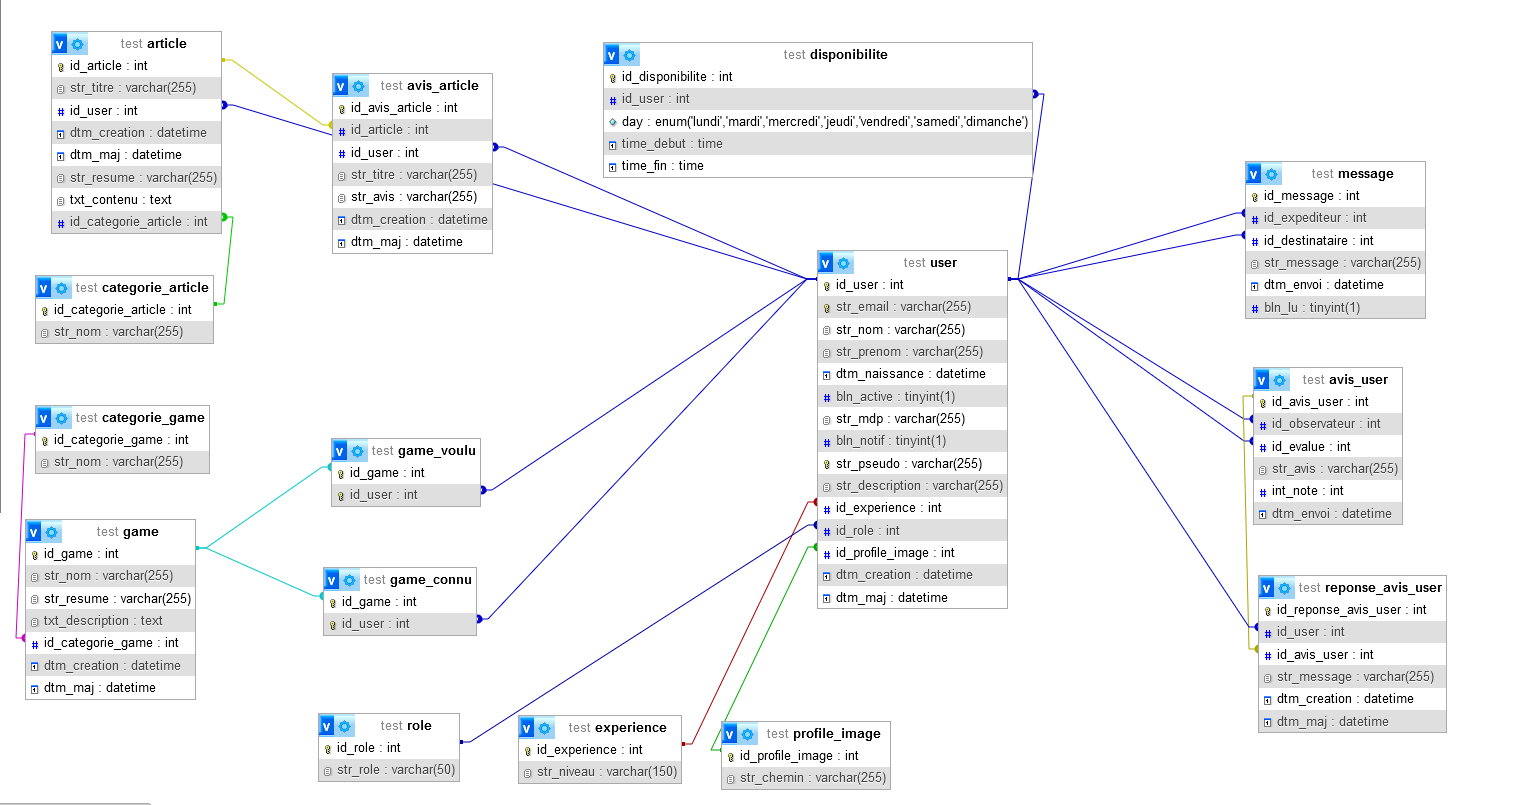
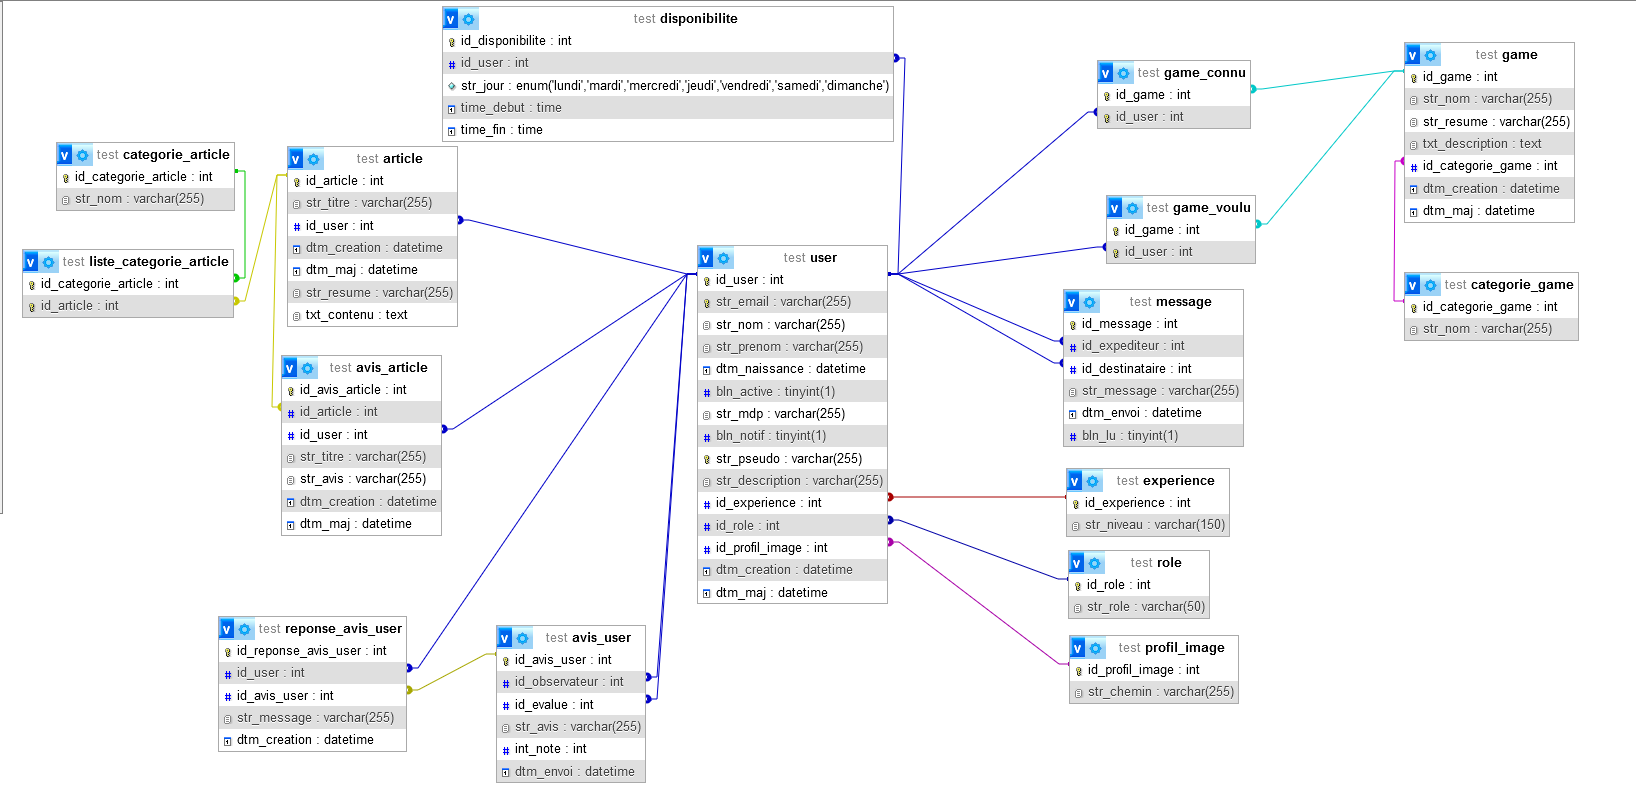
UserRepository en cours

diff --git a/src/Repositories/UserRepository.php b/src/Repositories/UserRepository.php
@@ -1,0 +1,136 @@
+<?php
+
+namespace src\Repositories;
+
+use PDO;
+use PDOException;
+use src\Models\Database;
+use src\Models\User;
+
+class UserRepository {
+
+    private $DB;
+
+    private function __construct() {
+        $database = new Database();
+        $this->DB = $database->getDB();
+        require_once __DIR__.'/../../config.php';
+    }
+
+    public function createUser(User $user): User {
+        try {
+            $sql = "INSERT INTO user (str_email, str_nom, str_prenom, dtm_naissance, str_pseudo) 
+                    VALUES (:str_email, :str_nom, :str_prenom, :dtm_naissance, :str_pseudo)";
+            $statement = $this->DB->prepare($sql);
+            $statement->execute([
+                ":str_email"     => $user->getStrEmail(),
+                ":str_nom"       => $user->getStrNom(),
+                ":str_prenom"    => $user->getStrPrenom(),
+                ":dtm_naissance" => $user->getDtmNaissance(),
+                ":str_pseudo"    => $user->getStrPseudo()
+            ]);
+
+            $lastInsertId = $this->DB->lastInsertId();
+            $user->setIdUser((int)$lastInsertId);
+
+            $sql = "SELECT * FROM user WHERE id_user = :id";
+            $statement = $this->DB->prepare($sql);
+            $statement->execute([":id" => $lastInsertId]);
+            $userData = $statement->fetch(PDO::FETCH_ASSOC);
+
+            if ($userData) {
+                $user->actualise($userData);
+            }
+            return $user;
+        } 
+        catch (PDOException $error) {
+            throw new \Exception("Database error: " . $error->getMessage());
+        }
+    }
+
+    public function getAllUser () :array {
+        try {
+            $sql = "SELECT user.*, AVG(avis_user.int_note) AS avg_score
+                    FROM user
+                    LEFT JOIN avis_user ON user.id_user = avis_user.id_evalue
+                    GROUP BY user.id_user
+                    ORDER BY avg_score DESC;";
+            $statement = $this->DB->prepare($sql);
+            $statement->execute();
+            $retour = $statement->fetchAll(PDO::FETCH_CLASS, User::class);
+            return $retour;
+        }
+        catch (PDOException $error) {
+            throw new \Exception("Database error: " . $error->getMessage());
+        }
+    }
+
+    public function getThisUserById (int $id_user): User {
+        try {
+            $sql = "SELECT * FROM user WHERE user.id_user = :id_user;";
+            $statement = $this->DB->prepare($sql);
+            $statement->execute([
+                ":id_user" => $id_user
+            ]);
+            $retour = $statement->fetchAll(PDO::FETCH_CLASS, User::class);
+            return $retour;
+        }
+        catch (PDOException $error) {
+            throw new \Exception("Database error: " . $error->getMessage());
+        }
+    }
+
+    public function getThisUserByEmail (string $str_email): User {
+        try {
+            $sql = "SELECT * FROM user WHERE user.str_email = :str_email;";
+            $statement = $this->DB->prepare($sql);
+            $statement->execute([
+                ":str_email" => $str_email
+            ]);
+            $retour = $statement->fetchAll(PDO::FETCH_CLASS, User::class);
+            return $retour;
+        }
+        catch (PDOException $error) {
+            throw new \Exception("Database error: " . $error->getMessage());
+        }
+    }
+
+    public function getThisUserByPseudo (int $str_pseudo): User {
+        try {
+            $sql = "SELECT * FROM user WHERE user.str_pseudo = :str_pseudo;";
+            $statement = $this->DB->prepare($sql);
+            $statement->execute([
+                ":str_pseudo" => $str_pseudo
+            ]);
+            $retour = $statement->fetchAll(PDO::FETCH_CLASS, User::class);
+            return $retour;
+        }
+        catch (PDOException $error) {
+            throw new \Exception("Database error: " . $error->getMessage());
+        }
+    }
+
+
+
+    public function login(string $str_email, string $password): ?User {
+        try {
+            $sql = "SELECT * FROM ".PREFIXE."user WHERE user.str_email = :str_email;";
+            $statement = $this->DB->prepare($sql);
+            $statement->execute([
+                ":str_email" => $str_email,
+            ]);
+
+            $statement->setFetchMode(PDO::FETCH_CLASS, User::class);
+            $user = $statement->fetch();
+
+            if ($user && password_verify($password, $user->getStrMdp())) {
+                return $user;
+            } else {
+                return null;
+            }
+        } catch (PDOException $error) {
+            throw new \Exception("Database error: " . $error->getMessage());
+        }
+    }
+
+}

diff --git a/src/Models/ListeCategorieArticle.php b/src/Models/ListeCategorieArticle.php
@@ -1,0 +1,49 @@
+<?php
+
+namespace src\Models;
+
+use src\Services\Hydratation;
+
+class ListeCategorieArticle {
+
+    private int $id_categorie_article;
+    private int $id_article;
+
+    use Hydratation;
+
+    /**
+     * Get the value of id_categorie_article
+     */
+    public function getIdCategorieArticle(): int
+    {
+        return $this->id_categorie_article;
+    }
+
+    /**
+     * Set the value of id_categorie_article
+     */
+    public function setIdCategorieArticle(int $id_categorie_article): self
+    {
+        $this->id_categorie_article = $id_categorie_article;
+
+        return $this;
+    }
+
+    /**
+     * Get the value of id_article
+     */
+    public function getIdArticle(): int
+    {
+        return $this->id_article;
+    }
+
+    /**
+     * Set the value of id_article
+     */
+    public function setIdArticle(int $id_article): self
+    {
+        $this->id_article = $id_article;
+
+        return $this;
+    }
+}

diff --git a/src/Repositories/ArticleRepository.php b/src/Repositories/ArticleRepository.php
@@ -1,0 +1,27 @@
+<?php
+
+namespace src\Repositories;
+
+use PDOException;
+use src\Models\Article;
+use src\Models\Database;
+
+class ArticleRepository {
+
+    private $DB;
+
+    private function __construct() {
+        $database = new Database();
+        $this->DB = $database->getDB();
+        require_once __DIR__.'/../../config.php';
+    }
+
+    public function createArticle (Article $article):void {
+        try {
+            $sql = "INSERT INTO article (str_titre, id_user, str_resume, txt_contenu) VALUES (:str_titre, :id_user, :str_resume, :txt_contenu);";
+        }
+        catch (PDOException $error) {
+            throw new \Exception("Database error: " . $error->getMessage());
+        }
+    }
+}

diff --git a/src/Services/Hydratation.php b/src/Services/Hydratation.php
@@ -26,4 +26,20 @@ trait Hydratation
     $this->hydrate([$name => $value]);
   }
 
+  /**
+     * Hydrate l'objet avec les données fournies
+     * 
+     * @param array $data Tableau associatif des données
+     * @return void
+     */
+    public function actualise(array $data): void {
+        foreach ($data as $key => $value) {
+            $method = 'set' . str_replace('_', '', ucwords($key, '_'));
+
+            if (method_exists($this, $method)) {
+                $this->$method($value);
+            }
+        }
+    }
+
 }

diff --git a/src/Models/User.php b/src/Models/User.php
@@ -303,4 +303,5 @@ class User {
             $this->dtm_maj = new DateTime($dtm_maj);
         }
     }
+
 }
